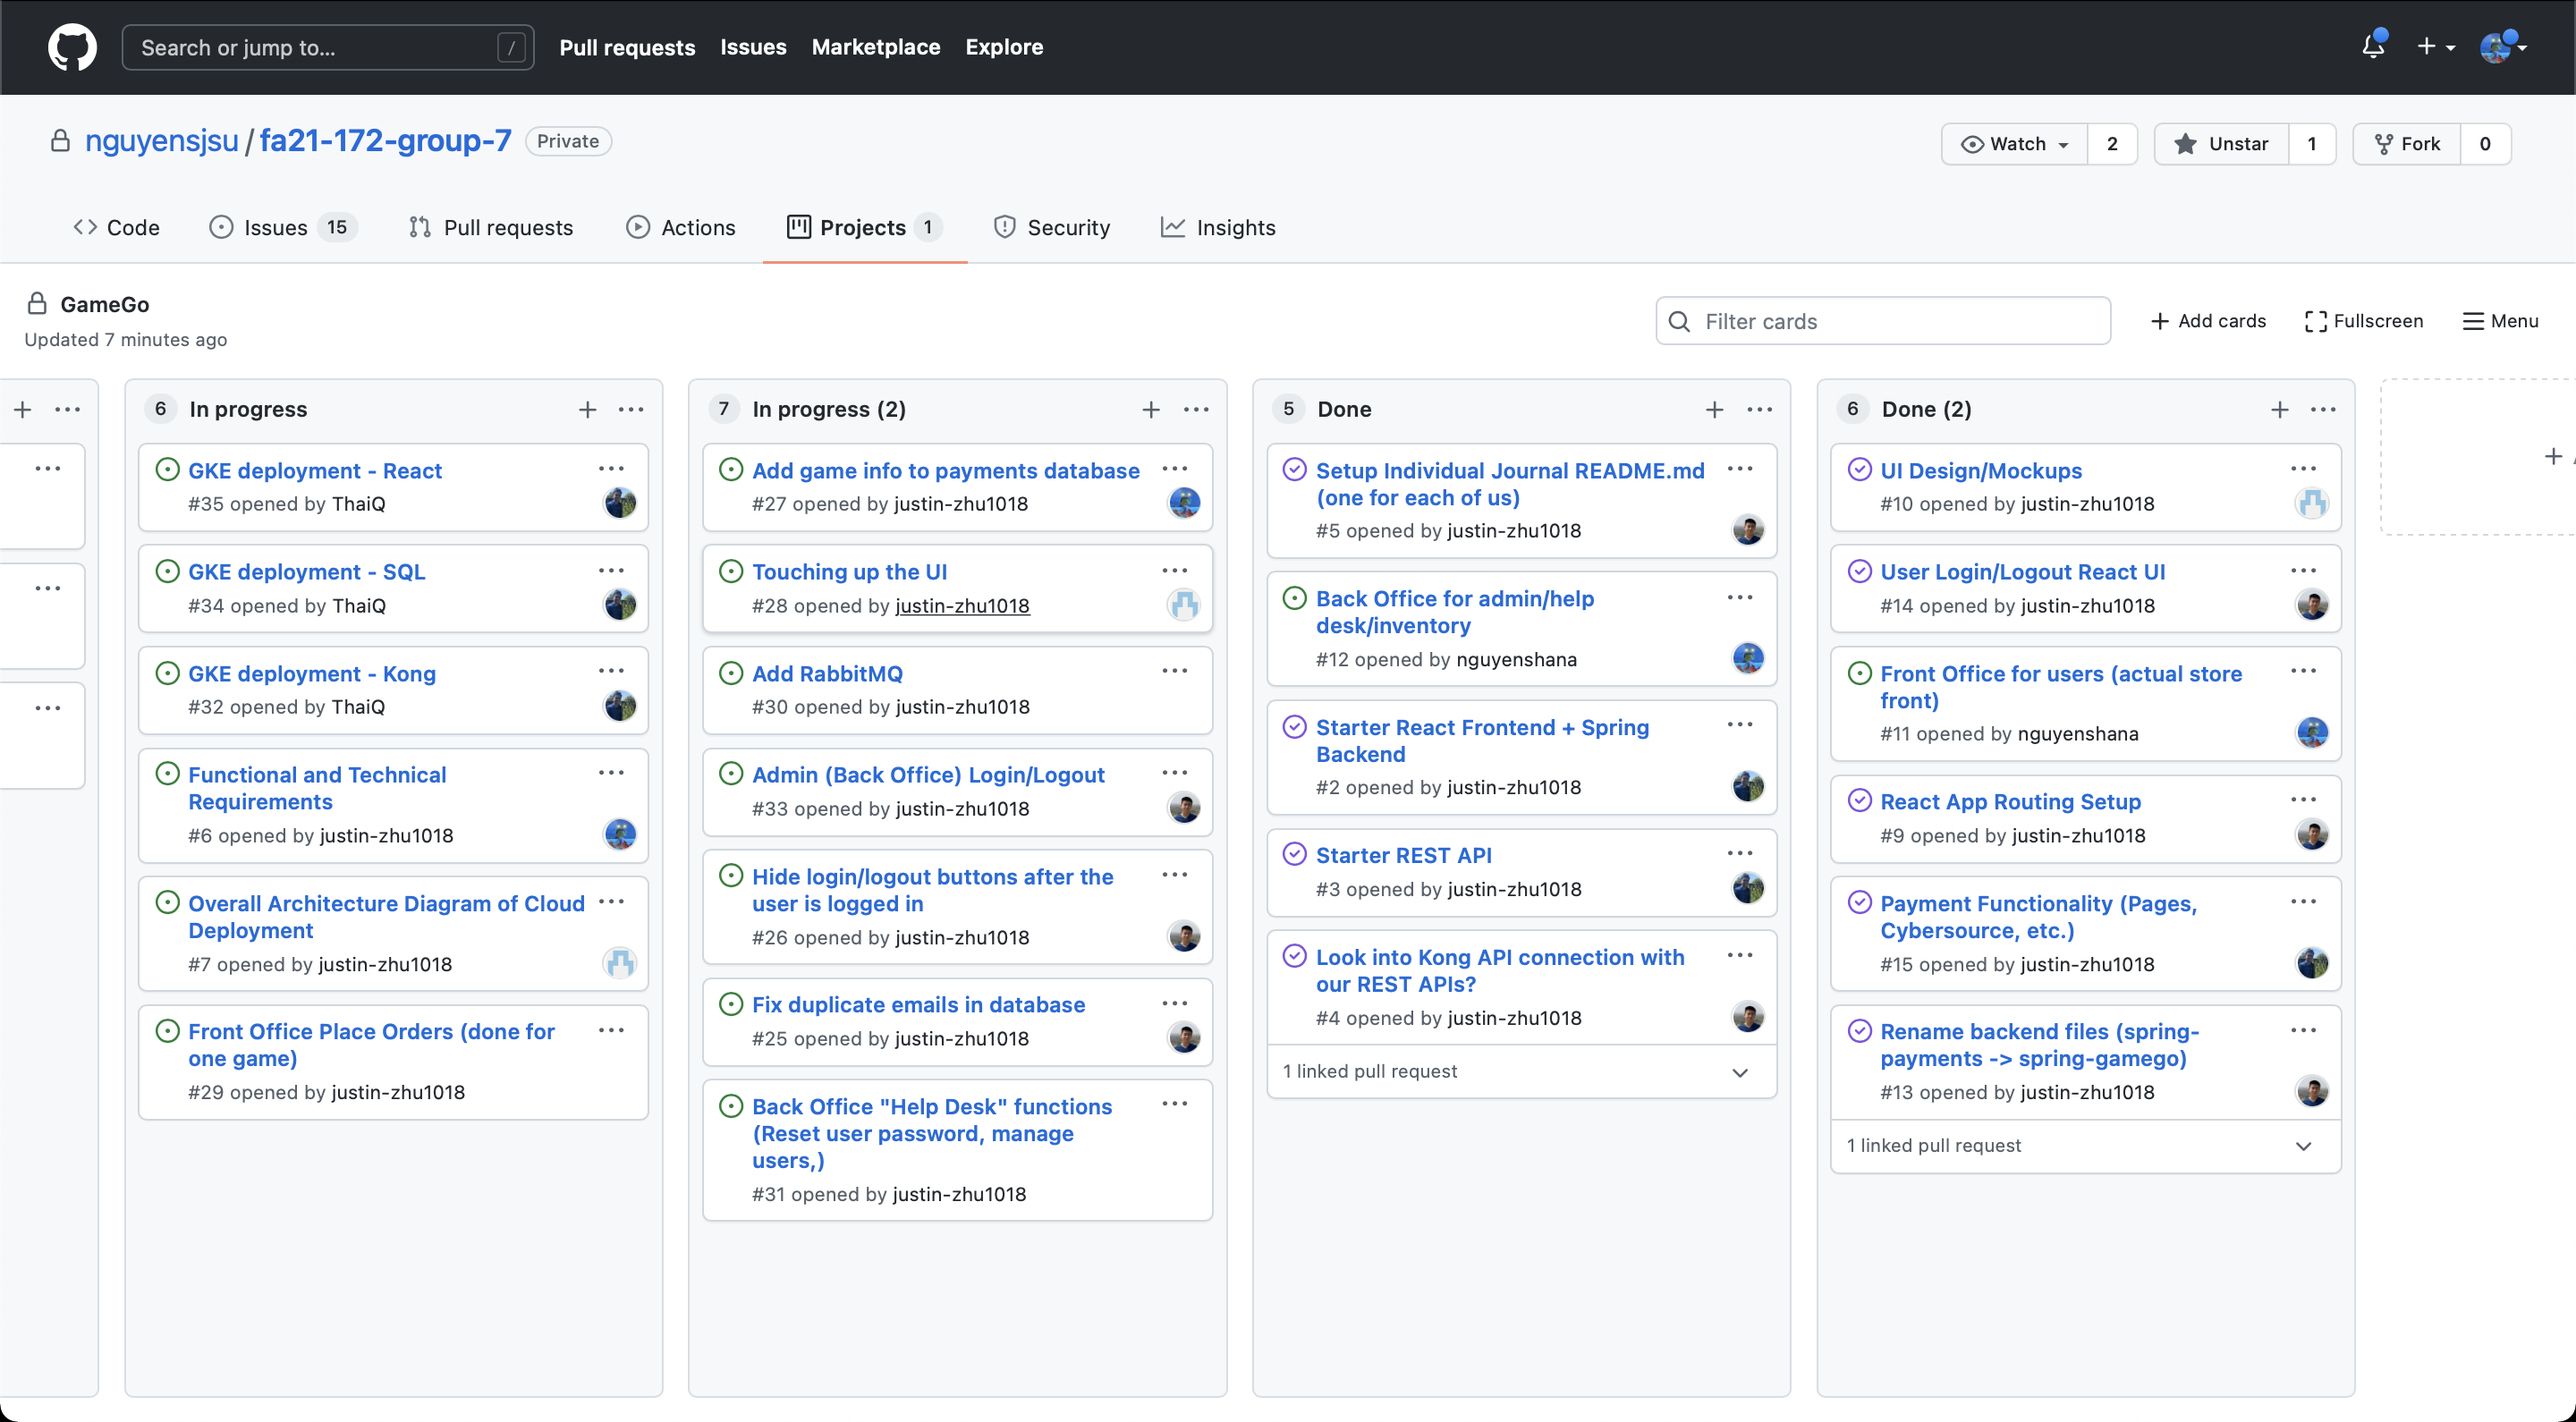
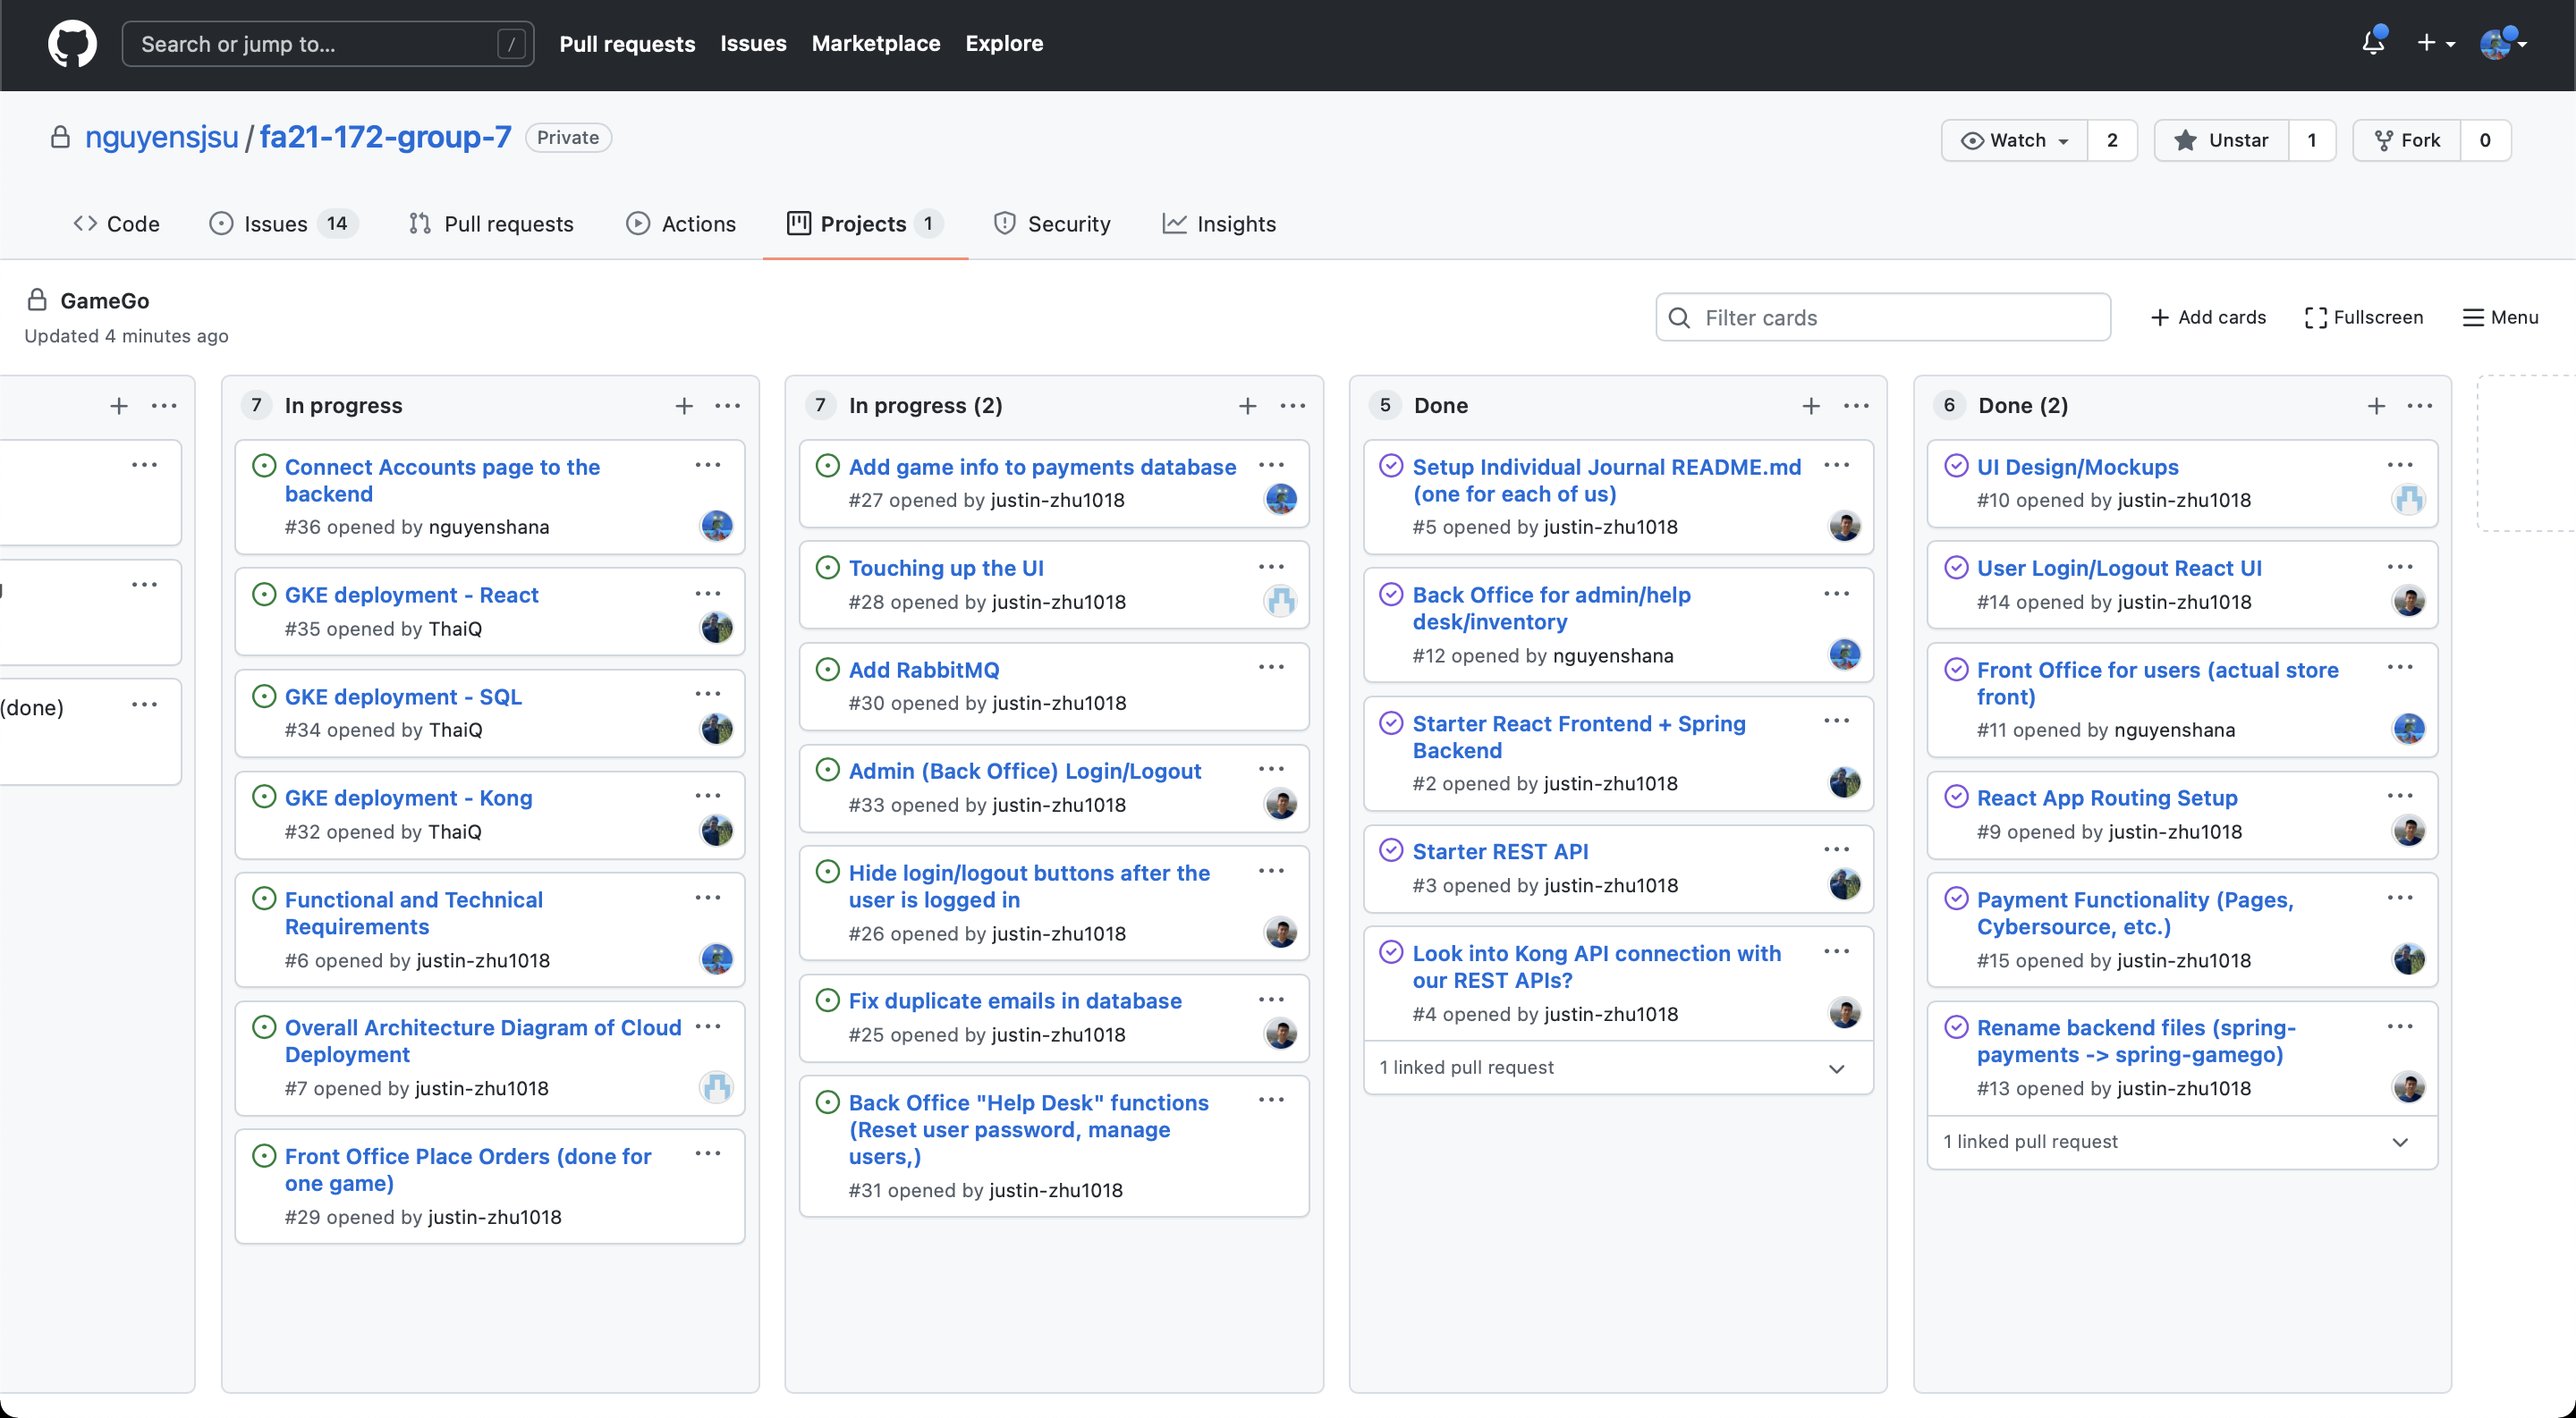
admin can log out + updated journal

diff --git a/frontend/src/components/Navbar.js b/frontend/src/components/Navbar.js
@@ -7,7 +7,7 @@ export default class Navbar extends Component {
   constructor(props) {
     super(props);
     this.state= {
-      userType: 'user'
+      userType: localStorage.getItem('userType')
     }
   }
 
@@ -71,8 +71,8 @@ export default class Navbar extends Component {
         <button onClick={this.handleSwitch}>
           Switch Navbars
         </button>
-        { localStorage.getItem('userType') === "admin"
-          ? adminNavbarOptions
+        { this.state.userType === 'admin'
+          ? adminNavbarOptions 
           : userNavbarOptions
         }
         <NavbarUserButton />

diff --git a/frontend/src/routes/PrivateRoute.js b/frontend/src/routes/PrivateRoute.js
@@ -12,11 +12,12 @@ export default function PrivateRoute({
     <Route
       {...rest}
       render={(props) =>
-        localStorage.getItem('userType') === ('user' || 'admin') ? (
+        (localStorage.getItem('userType') === 'user' || localStorage.getItem('userType') === 'admin') ? (
           <Component {...props} />
         ) : (
           <Redirect to="/login" />
         )
+
       }
     />
   );

diff --git a/frontend/src/pages/Logout.js b/frontend/src/pages/Logout.js
@@ -5,7 +5,7 @@ export default function Logout(props) {
   const history = useHistory();
 
   useEffect(()=>{
-    if(localStorage.getItem('userType') === ('user' || 'admin')) {
+    if(localStorage.getItem('userType') === 'user' || localStorage.getItem('userType') === 'admin') {
       localStorage.setItem('userType', '');
       localStorage.setItem('ggToken', '');
       history.push('/');

diff --git a/journals/shana-nguyen.md b/journals/shana-nguyen.md
@@ -53,8 +53,25 @@ Each week should include:
 ![Board Week 3](images/sn-3.png)
 
 ### Accomplishments:
+1.[Add game info to payments database](https://github.com/nguyensjsu/fa21-172-group-7/issues/27)
+- Game information is included when a payment is made, and the game inventory count is decreased
+2.[Connect Accounts page to the backend](https://github.com/nguyensjsu/fa21-172-group-7/issues/36)
+- Admins can view the accounts page to see all user accounts
+3. Added an admin account to view admin-only pages
+
+### Challenges:
+- gradle build started failing every time; workaround is to comment out the tests
+- admin logout didn't work properly; turns out, the error was that the boolean formatting of `if user == (type1 || type2)` doesn't work, and it needs to be written as `if user == type1 || user == type2`
+
+
+
+## Week 4 (Dec 1 - Dec 6)
+
+![Board Week 4](images/.png)
+
+### Accomplishments:
+
 
 
 ### Challenges:
-
 
